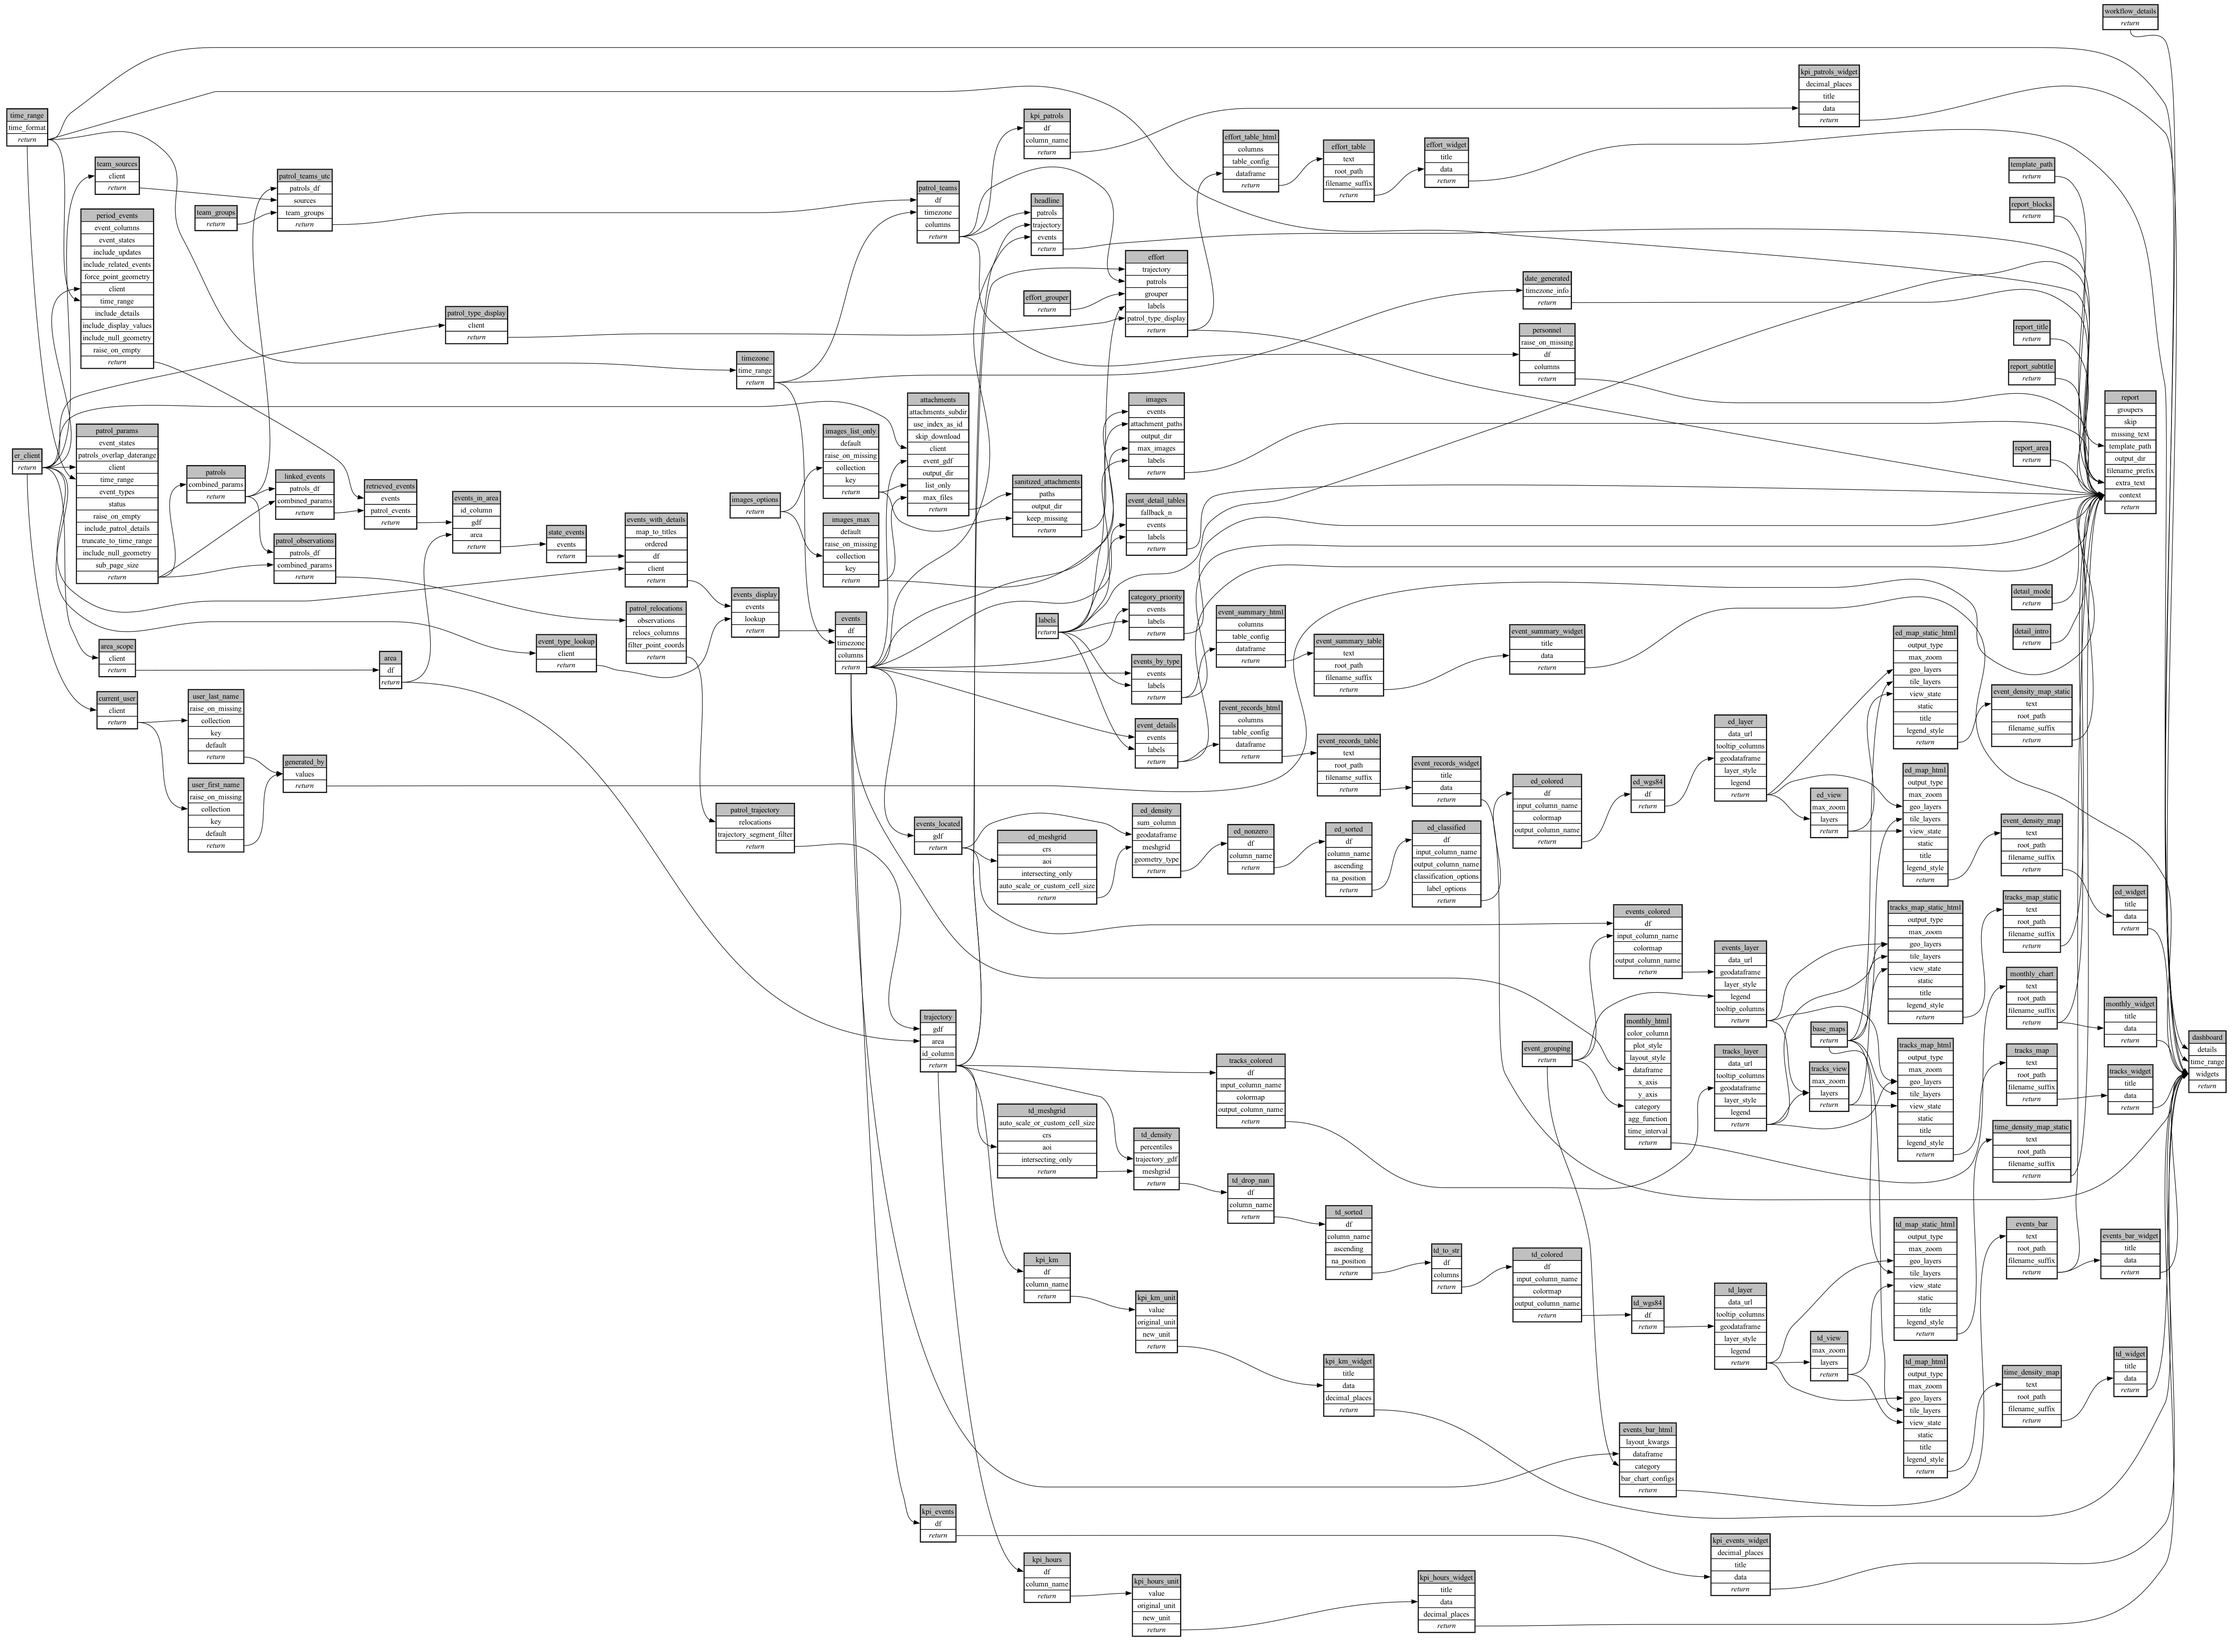
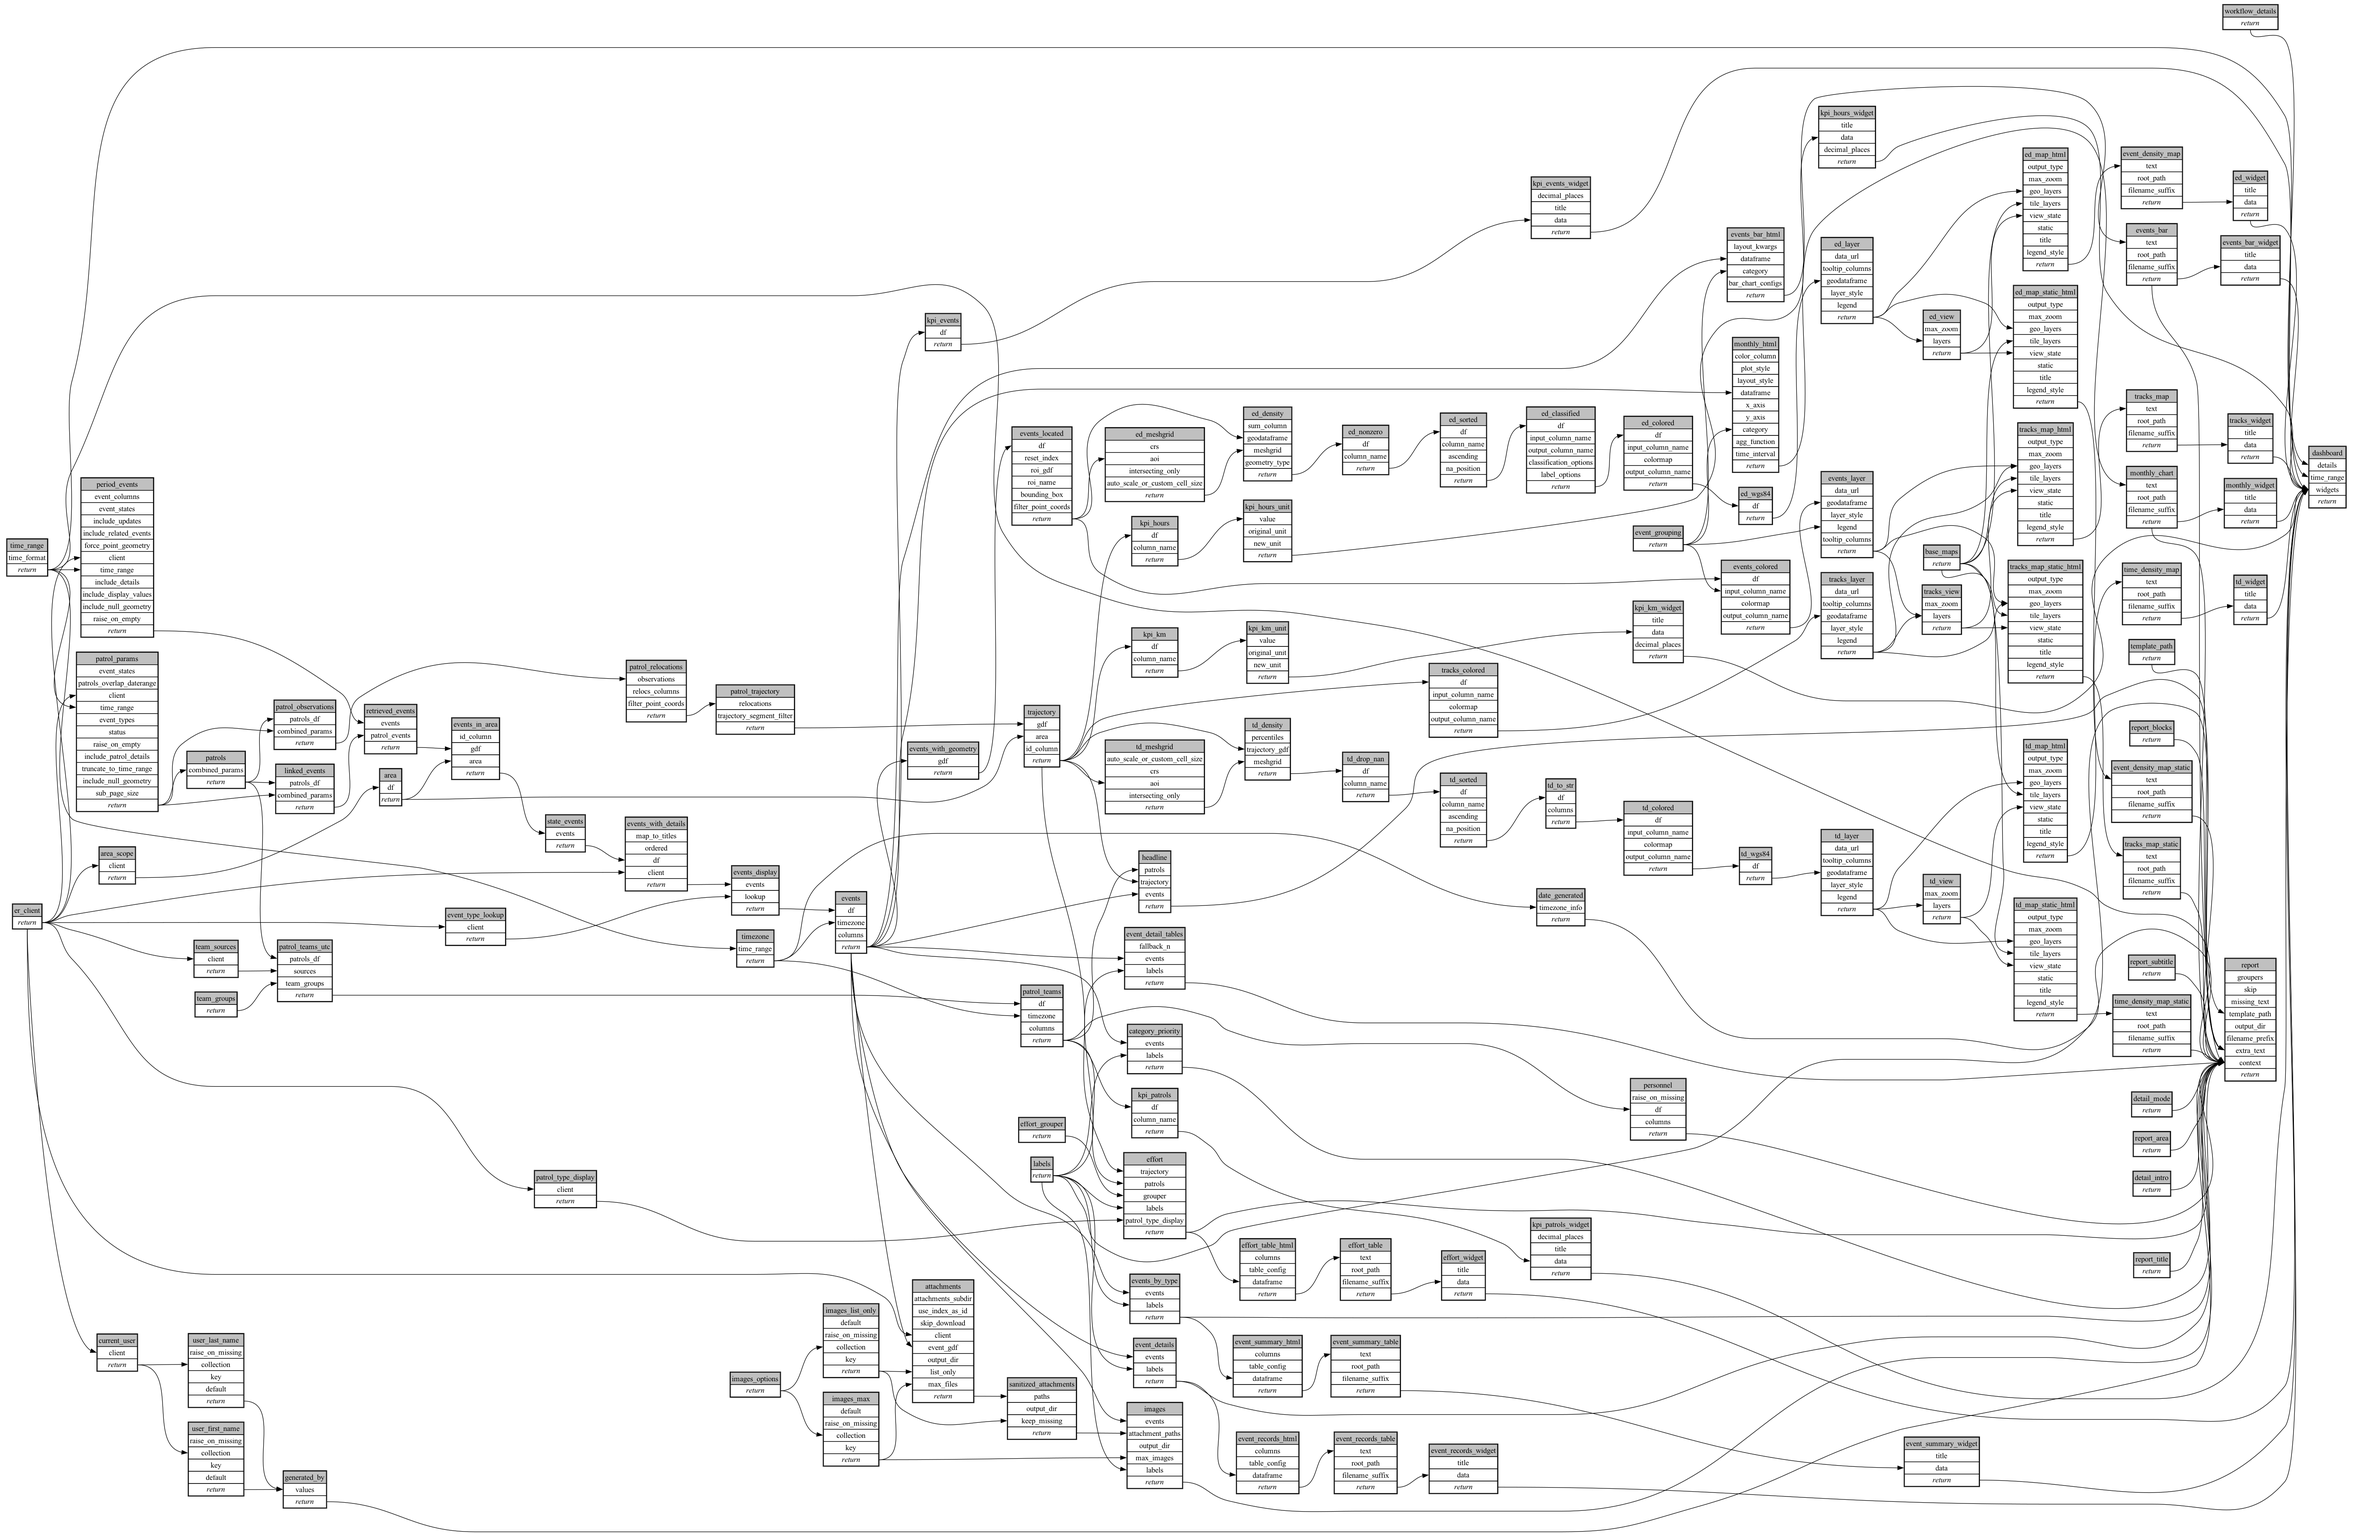
fix: drop placeholder (0,0) event points from maps/density grid
Five APN events at 0,0 stretched the 2 km event-density grid to 10.7M cells
(~42 min). Events still count in tables and totals. APN run: 54 -> 11 min.

diff --git a/workflows/standard_patrol_events/ecoscope-workflows-standard-patrol-events-workflow/ecoscope_workflows_standard_patrol_events_workflow/dags/run_sequential_mock_io.py b/workflows/standard_patrol_events/ecoscope-workflows-standard-patrol-events-workflow/ecoscope_workflows_standard_patrol_events_workflow/dags/run_sequential_mock_io.py
@@ -151,6 +151,9 @@ from ecoscope.platform.tasks.transformation import (
 )
 from ecoscope.platform.tasks.transformation import apply_color_map as apply_color_map
 from ecoscope.platform.tasks.transformation import (
+    apply_reloc_coord_filter as apply_reloc_coord_filter,
+)
+from ecoscope.platform.tasks.transformation import (
     convert_column_values_to_string as convert_column_values_to_string,
 )
 from ecoscope.platform.tasks.transformation import (
@@ -1053,8 +1056,25 @@ def main(params: dict[str, Any], validate_params_schema: bool = True):
         .call()
     )
 
-    events_located = (
+    events_with_geometry = (
         task(drop_null_geometry)
+        .validate()
+        .set_task_instance_id("events_with_geometry")
+        .handle_errors()
+        .with_tracing()
+        .skipif(
+            conditions=[
+                any_is_empty_df,
+                any_dependency_skipped,
+            ],
+            unpack_depth=1,
+        )
+        .partial(gdf=events, **(params.get("events_with_geometry") or {}))
+        .call()
+    )
+
+    events_located = (
+        task(apply_reloc_coord_filter)
         .validate()
         .set_task_instance_id("events_located")
         .handle_errors()
@@ -1066,7 +1086,24 @@ def main(params: dict[str, Any], validate_params_schema: bool = True):
             ],
             unpack_depth=1,
         )
-        .partial(gdf=events, **(params.get("events_located") or {}))
+        .partial(
+            df=events_with_geometry,
+            reset_index=False,
+            roi_gdf=None,
+            roi_name=None,
+            bounding_box={
+                "min_y": -90.0,
+                "max_y": 90.0,
+                "min_x": -180.0,
+                "max_x": 180.0,
+            },
+            filter_point_coords=[
+                {"x": 180.0, "y": 90.0},
+                {"x": 0.0, "y": 0.0},
+                {"x": 1.0, "y": 1.0},
+            ],
+            **(params.get("events_located") or {}),
+        )
         .call()
     )
 

diff --git a/workflows/standard_patrol_events/ecoscope-workflows-standard-patrol-events-workflow/ecoscope_workflows_standard_patrol_events_workflow/dags/run_sequential.py b/workflows/standard_patrol_events/ecoscope-workflows-standard-patrol-events-workflow/ecoscope_workflows_standard_patrol_events_workflow/dags/run_sequential.py
@@ -89,6 +89,9 @@ from ecoscope.platform.tasks.transformation import (
 )
 from ecoscope.platform.tasks.transformation import apply_color_map as apply_color_map
 from ecoscope.platform.tasks.transformation import (
+    apply_reloc_coord_filter as apply_reloc_coord_filter,
+)
+from ecoscope.platform.tasks.transformation import (
     convert_column_values_to_string as convert_column_values_to_string,
 )
 from ecoscope.platform.tasks.transformation import (
@@ -1012,8 +1015,25 @@ def main(params: dict[str, Any], validate_params_schema: bool = True):
         .call()
     )
 
-    events_located = (
+    events_with_geometry = (
         task(drop_null_geometry)
+        .validate()
+        .set_task_instance_id("events_with_geometry")
+        .handle_errors()
+        .with_tracing()
+        .skipif(
+            conditions=[
+                any_is_empty_df,
+                any_dependency_skipped,
+            ],
+            unpack_depth=1,
+        )
+        .partial(gdf=events, **(params.get("events_with_geometry") or {}))
+        .call()
+    )
+
+    events_located = (
+        task(apply_reloc_coord_filter)
         .validate()
         .set_task_instance_id("events_located")
         .handle_errors()
@@ -1025,7 +1045,24 @@ def main(params: dict[str, Any], validate_params_schema: bool = True):
             ],
             unpack_depth=1,
         )
-        .partial(gdf=events, **(params.get("events_located") or {}))
+        .partial(
+            df=events_with_geometry,
+            reset_index=False,
+            roi_gdf=None,
+            roi_name=None,
+            bounding_box={
+                "min_y": -90.0,
+                "max_y": 90.0,
+                "min_x": -180.0,
+                "max_x": 180.0,
+            },
+            filter_point_coords=[
+                {"x": 180.0, "y": 90.0},
+                {"x": 0.0, "y": 0.0},
+                {"x": 1.0, "y": 1.0},
+            ],
+            **(params.get("events_located") or {}),
+        )
         .call()
     )
 

diff --git a/workflows/standard_patrol_events/ecoscope-workflows-standard-patrol-events-workflow/README.md b/workflows/standard_patrol_events/ecoscope-workflows-standard-patrol-events-workflow/README.md
@@ -5,15 +5,15 @@
 
 ```yaml
 # fingerprint:
-artifacts_sha256_basic: 1546136c9fd964f84ed6d9394863f47dba0ba3db794dd62dc95752e190f4cc27
-artifacts_sha256_strict: a5eeb139a5fddb01b552c2f0763b727833ddc8481fc8adc635d52a13418587da
+artifacts_sha256_basic: 0ff47ae178b5072d3ffba9478d8a626ec25c978b22e846938020077ece4c567d
+artifacts_sha256_strict: b8c88dedb87ad9786b863ba84ab2507fdccb95ac9a61f607c342acc79da81fca
 installed_requirements:
 - channel: https://repo.prefix.dev/ecoscope-workflows/
   name: ecoscope-platform
   version: {version: ==2.28.0}
 - channel: file:///tmp/ecoscope-workflows-custom/release/artifacts/
   name: ecoscope-workflows-ext-custom
-  version: {version: ==0.1.6.dev24+gdfc66359f}
+  version: {version: ==0.1.6.dev24+gdfc66359f.d20261117}
 - channel: file:///tmp/ecoscope-workflows-custom/release/artifacts/
   name: ecoscope-workflows-ext-standard-patrol-events
   version: {version: ==10000.dev8+gaf101921d}
@@ -21,7 +21,7 @@ installed_requirements:
   name: pydeck
   version: {version: ==0.9.2}
 params_sha256: 82d413bfadbdfd60ae2689b448a2a8ccc22aade3eb6ba86d0afc239740d1ae6e
-spec_sha256: 61220e9d8c8346b8b58dc4db126da6becfaf3243386aa5df5d3140f5d88bddd7
+spec_sha256: bdbaa33b0ffcbc1601858516bf07d14f30e18bdd35b50a09f7bd232a4164839d
 
 ```
 
